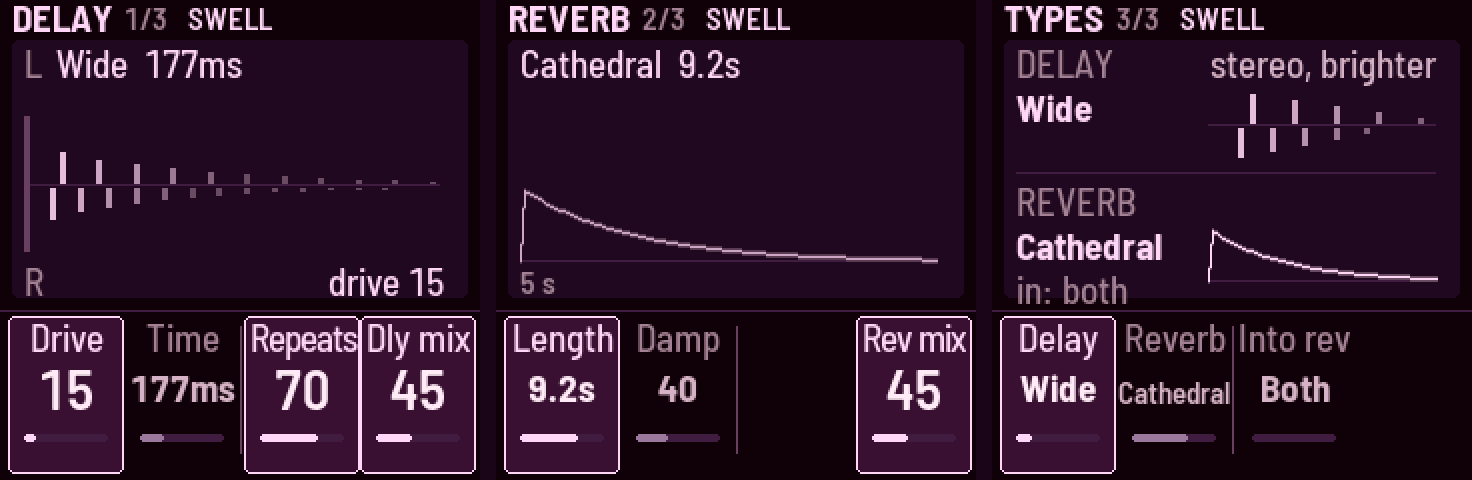
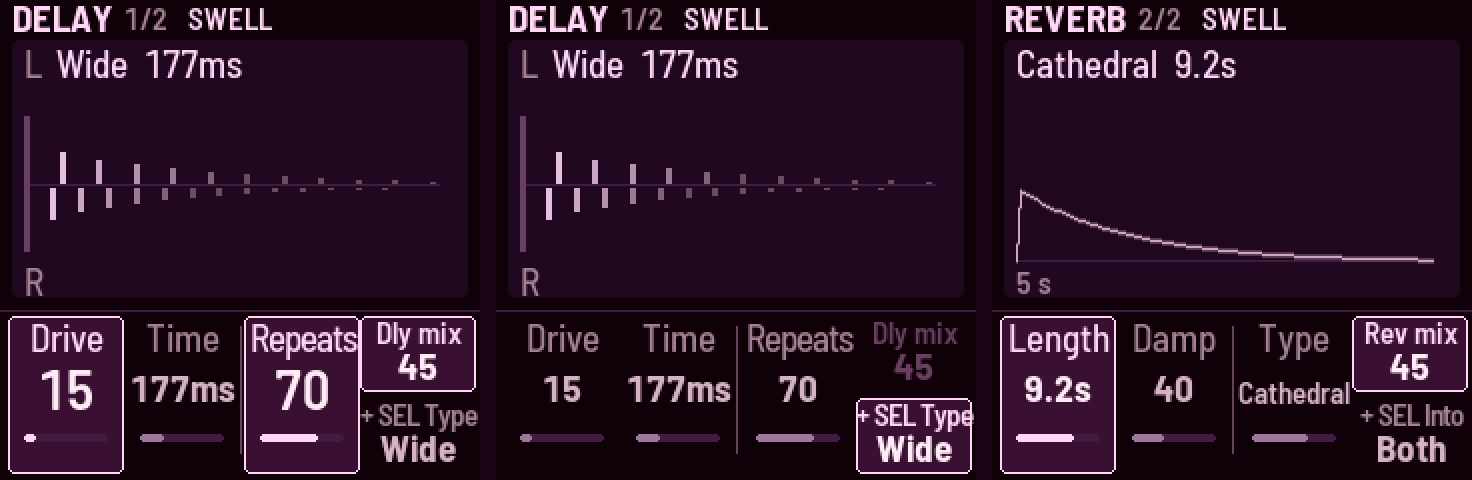
FX in two pages: the Types page folded in, KNOB 4 with a second job on SEL
Delay: Drive, Time, Repeats, Mix; Reverb: Length, Damp, Type (the knob that was empty), Mix. KNOB 4 on each page
turns, with SEL held, the choice made before playing: the delay's type, what goes into the reverb. Its card shows
both jobs at all times in two halves (the mix above, "+ SEL Type" / "+ SEL Into" below); the half turning lights,
and while SEL turns it only the mix half dims. The delay picture no longer repeats Drive. From review 5 and Evan's
design (Figma: Screen concepts, draft 5). Parameters unchanged.

diff --git a/web/emu/index.html b/web/emu/index.html
@@ -535,9 +535,8 @@ kbd { font: 500 .85em var(--mono); background: var(--card); border: 1px solid va
       <div class="pblock">
         <div class="g-btn">FX</div>
         <div class="pstack">
-        <div class="g-page"><i>Delay</i><span class="k both"><span class="sr">Knob 1: </span>Drive<small>after the delay</small></span><span class="k both"><span class="sr">Knob 2: </span>Time<small>70 ms – 1.46 s · on a clock: notes</small></span><span class="k both"><span class="sr">Knob 3: </span>Repeats</span><span class="k both"><span class="sr">Knob 4: </span>Dly mix</span></div>
-        <div class="g-page"><i>Reverb</i><span class="k both"><span class="sr">Knob 1: </span>Length<small>to Inf: a freeze</small></span><span class="k both"><span class="sr">Knob 2: </span>Damp</span><span class="k both none"><span class="sr">Knob 3: </span>–</span><span class="k both"><span class="sr">Knob 4: </span>Rev mix</span></div>
-        <div class="g-page"><i>Types</i><span class="k both"><span class="sr">Knob 1: </span>Delay<small>clean · wide · ping-pong · tape · grain · self</small></span><span class="k both"><span class="sr">Knob 2: </span>Reverb<small>room · hall · cathedral · chorus</small></span><span class="k both"><span class="sr">Knob 3: </span>Into reverb<small>both · echoes · drones</small></span><span class="k both none"><span class="sr">Knob 4: </span>–</span></div>
+        <div class="g-page"><i>Delay</i><span class="k both"><span class="sr">Knob 1: </span>Drive<small>after the delay</small></span><span class="k both"><span class="sr">Knob 2: </span>Time<small>70 ms – 1.46 s · on a clock: notes</small></span><span class="k both"><span class="sr">Knob 3: </span>Repeats</span><span class="k both"><span class="sr">Knob 4: </span>Dly mix<small>+ SEL: type · clean · wide · ping-pong · tape · grain · self</small></span></div>
+        <div class="g-page"><i>Reverb</i><span class="k both"><span class="sr">Knob 1: </span>Length<small>to Inf: a freeze</small></span><span class="k both"><span class="sr">Knob 2: </span>Damp</span><span class="k both"><span class="sr">Knob 3: </span>Type<small>room · hall · cathedral · chorus</small></span><span class="k both"><span class="sr">Knob 4: </span>Rev mix<small>+ SEL: into · both · echoes · drones</small></span></div>
         </div>
       </div>
     </div>
@@ -742,7 +741,7 @@ function hit(c, cls) {
   c.hit = d;
 }
 // what each control does, on hover (the Buttons list below says the same)
-const TIP = { FX: "Delay: drive, time, repeats, mix (again: Reverb: length to Inf, damp, mix; again: Types: the delay's, the reverb's)", SEL: "Hold while turning: fine (pitch in cents, cutoff and resonance in tenths); with a top white key: a bank (A, B, C, Presets); with PLAY: drone II alone",
+const TIP = { FX: "Delay: drive, time, repeats, mix; SEL + KNOB 4: the delay type (again: Reverb: length to Inf, damp, type, mix; SEL + KNOB 4: what goes into it)", SEL: "Hold while turning: fine (pitch in cents, cutoff and resonance in tenths); with a top white key: a bank (A, B, C, Presets); with PLAY: drone II alone",
   ENV: "Life: character, feedback, age, drift (again: Tone: noise and its colour, white to pink); hold to peek", LFO: "LFO depths: each drone's osc and filter depth; the keys pick the routing (again: Mods: rate mod, mod by, X-mod amount, delay LFO)",
   EDIT: "Osc: X-Wave, pulse width (again: Sub · Drive: osc mix, drive); hold to peek", GLO: "Setup 1: fade, switch time, scene time (again: Setup 2: tune, stereo width, pressure)",
   HOME: "Drones 1: pitch, cutoff (again: Drones 2: levels, resonance)", SAVE: "Save; hold it first, then tap a white key: store a scene (in bank A, B or C)", ARP: "Swell: tap for its page, tap again there: on / off; hold to peek", SEQ: "Partner: interval, detune (again: Pitch moves: Shift's move, pitch glide, Wander, its scale)",

diff --git a/firmware/src/app/ui.c b/firmware/src/app/ui.c
@@ -35,8 +35,9 @@
  * REC            the MOTION LOOP: tap to record what the knobs do, tap again to loop it from the start,
  *                tap again to stop (everything stays where it is); up to 5 minutes (lit: blinking recording,
  *                steady looping)
- *   FX             Delay: drive (after the delay, v0.3), time, repeats, mix; again: Reverb: length (to Inf),
- *                  damp, mix; again: Types: the delay's, the reverb's
+ *   FX             Delay: drive (after the delay, v0.3), time, repeats, mix, and with SEL held KNOB 4 the delay's
+ *                  type; again: Reverb: length (to Inf), damp, type, mix, and with SEL held KNOB 4 what goes into
+ *                  it (the Types page folded in: review 5, Evan 2026-10-28)
  *                  (the delay LFO's tap: the LFO page's key in drone II's filter group)
  *   ENV            Life: character, feedback, Age, Drift (first: review 5, 2026-10-28); again: Tone: each
  *                  drone's noise and colour
@@ -46,10 +47,9 @@
 /* ------------------------------------------------------------- pages --- */
 /* the pages (2026-10-10, from the review: what's played together sits together, no half-empty pages) */
 enum { V_PLAY, V_PLAY2, V_LIFE, V_TONE, V_OSC, V_SOURCE, V_LFO, V_LFO2, V_PARTNER, V_MOVES, V_SETUP, V_SETUP2,
-       V_PULSE, V_FX, V_FX2, V_FX3, NVIEWS };
+       V_PULSE, V_FX, V_FX2, NVIEWS };
 static const char *const VIEW_NAME[NVIEWS] = {"Drones 1", "Drones 2", "Life", "Tone", "Osc", "Sub · Drive", "LFO depths",
-                                              "Mods", "Partner", "Pitch moves", "Setup 1", "Setup 2", "Swell", "Delay", "Reverb",
-                                              "Types"};
+                                              "Mods", "Partner", "Pitch moves", "Setup 1", "Setup 2", "Swell", "Delay", "Reverb"};
 /* what each knob moves on each page: a drone's parameter (g 0 or 1, GP_*), a global one (g G, P_*), or
  * nothing (g NONE) */
 #define G 2
@@ -72,16 +72,19 @@ static const knob_t VIEW_KNOB[NVIEWS][4] = {
     {{G, P_FADE}, {G, P_MORPH}, {G, P_SCENE_T}, {NONE, 0}},
     {{G, P_TUNE}, {G, P_WIDTH}, {G, P_PRESS_SENS}, {NONE, 0}},   /* the Speaker cut is automatic (2026-10-20) */
     {{G, P_PULSE_RATE}, {G, P_PULSE_DEPTH}, {G, P_PULSE_SHAPE}, {G, P_PULSE_SWING}},
-    /* FX (v0.3): the delay with the drive after it; the reverb; their types on a page of their own (FX, third tap) */
+    /* FX (v0.3): the delay with the drive after it; the reverb, its type on KNOB 3. Each page's KNOB 4 has a second
+     * job with SEL held (SEL_JOB): the delay's type, what goes into the reverb (Evan, 2026-10-28) */
     {{G, P_DLY_DRIVE}, {G, P_DLY_TIME}, {G, P_DLY_REPEATS}, {G, P_DLY_MIX}},
-    {{G, P_REV_LEN}, {G, P_REV_DAMP}, {NONE, 0}, {G, P_REV_MIX}},
-    {{G, P_DLY_TYPE}, {G, P_REV_TYPE}, {G, P_DLY_ROUTE}, {NONE, 0}},
+    {{G, P_REV_LEN}, {G, P_REV_DAMP}, {G, P_REV_TYPE}, {G, P_REV_MIX}},
 };
+/* KNOB 4's second job with SEL held, on the pages that have one (its card shows both, the second "+ SEL"): the
+ * choices set before playing, so a player who never finds it loses nothing */
+static int sel_job_of(int v) { return v == V_FX ? P_DLY_TYPE : v == V_FX2 ? P_DLY_ROUTE : -1; }
 /* the page buttons: each shows its first page, pressed again the next */
 static const struct {
     uint8_t btn, first, n;
 } PAGE_BTN[] = {{B_HOME, V_PLAY, 2}, {B_ENV, V_LIFE, 2}, {B_EDIT, V_OSC, 2}, {B_LFO, V_LFO, 2},
-                {B_SEQ, V_PARTNER, 2}, {B_GLO, V_SETUP, 2}, {B_FX, V_FX, 3},
+                {B_SEQ, V_PARTNER, 2}, {B_GLO, V_SETUP, 2}, {B_FX, V_FX, 2},
                 {B_ARP, V_PULSE, 1}};                                    /* ARP: on its page, a tap toggles */
 #define NPAGE_BTN (sizeof PAGE_BTN / sizeof PAGE_BTN[0])
 #define HOLD_MS 400u                   /* a page button held this long (or a knob turned) is a peek */
@@ -157,6 +160,7 @@ static struct {
     char glab[2][16];                  /* SELECT / ALGORITHM / PRESETS turned: their name and value (top bar) */
     uint32_t glab_until;
     uint32_t touch_t[4];               /* each knob: lit until then (each its own timer: two hands) */
+    uint8_t k4_sel;                    /* KNOB 4 last turned with SEL held, on a page where that's its second job */
     int8_t morph;                      /* the scene being morphed to (VISIT_BACK: back from a visit), or -1 */
     int8_t visit;                      /* the white key held (a visit, if it's held long), or -1 */
     uint32_t visit_t;                  /* ... since */
@@ -226,8 +230,8 @@ static void mark_dirty(void) { ui.dirty = 1; ui.chg_t = plat_ms(); }
  * what's been seen, the player's, as the Gesture time is). A tip waits for the screen: after any message */
 enum { TIP_BLEND, TIP_NAMES, TIP_GEST, TIP_FX, TIP_INTO, TIP_XMOD, TIP_CLOCK, TIP_UNDO, NTIPS };
 static const char *const TIP_TEXT[NTIPS] = {   /* one line, the banner's width (~23) */
-    "PRESS HARDER: BLEND", "HOLD SEL: KEY NAMES", "HOLD: IN · TAP: LATCH", "TAP FX: REVERB, TYPES",
-    "KNOB 3: INTO REVERB", "KEY 11: PITCH, SNARL", "SWELL KNOB 1: DIVISION", "SEL + SAVE: UNDO"};
+    "PRESS HARDER: BLEND", "HOLD SEL: KEY NAMES", "HOLD: IN · TAP: LATCH", "TAP FX: REVERB",
+    "SEL + KNOB 4: INTO REV", "KEY 11: PITCH, SNARL", "SWELL KNOB 1: DIVISION", "SEL + SAVE: UNDO"};
 #define TIP_MS 3500u
 static int tip_seen(int t) { return proj.seen[t >> 3] >> (t & 7) & 1u; }
 static void tip(int t)
@@ -298,6 +302,8 @@ static void loop_note(int p, int v, uint32_t slide);  /* the motion loop notes k
 static int knob_param(int i)
 {
     knob_t k = VIEW_KNOB[ui.view][i];
+    if (i == 3 && (ui.btn >> B_SEL & 1u) && sel_job_of(ui.view) >= 0)
+        return sel_job_of(ui.view);                    /* KNOB 4's second job */
     if (k.g == NONE)
         return -1;
     if (k.g == G && dr_ext_spb > 0.0f)  /* on a MIDI clock (v0.3): the Swell's Rate its division, the delay's Time a note
@@ -425,6 +431,11 @@ static void knob_turn(int i, int32_t e)
     knob_t k = VIEW_KNOB[ui.view][i];
     if (p < 0)
         return;
+    if (i == 3 && sel_job_of(ui.view) >= 0) {        /* which half of KNOB 4's card lights */
+        ui.k4_sel = p == sel_job_of(ui.view);
+        if (ui.k4_sel)
+            ui.btn_used |= 1u << B_SEL;               /* SEL let go: not a tap */
+    }
     if (proj.par[P_II_OUT] && k.g == 1)        /* drone II out: say how it comes back, on any page (Evan, 2026-10-18) */
         say_c("II OFF", "SEL + PLAY", K_DRONE[1]);
     if (k.p == GP_PITCH && k.g < G)
@@ -570,7 +581,7 @@ static void set_view(int v)
         ui.touch_t[i] = 0;
     if (v == V_FX)
         tip(TIP_FX);
-    else if (v == V_FX3)
+    else if (v == V_FX2)
         tip(TIP_INTO);
     for (i = 0; i < NPAGE_BTN; i++)                    /* remembered: the button opens it next time */
         if (on_pages((int)i))
@@ -1758,8 +1769,8 @@ static const char *card_name(int p)
     case P_MORPH: return "Switch";             /* Switch time */
     case P_GLIDE: return "Glide";              /* Pitch glide */
     case P_PRESS_SENS: return "Press.";
-    case P_DLY_TYPE: return "Delay";           /* the Types page: each "Type" */
-    case P_REV_TYPE: return "Reverb";
+    case P_DLY_TYPE: return "Type";            /* the delay's (KNOB 4 with SEL), the reverb's (KNOB 3) */
+    case P_REV_TYPE: return "Type";
     case P_DLY_ROUTE: return "Into rev";       /* what goes into the reverb */
     case P_SCENE_BARS: return "Scenes";        /* the Scene time in bars (on a clock) */
     default: break;
@@ -1787,7 +1798,7 @@ static uint16_t page_col(void)
 {
     switch (ui.view) {
     case V_LFO: case V_LFO2: return K_LFO;
-    case V_FX: case V_FX2: case V_FX3: case V_LIFE: return K_FX;
+    case V_FX: case V_FX2: case V_LIFE: return K_FX;
     case V_PULSE: return K_PULSE;
     case V_SETUP: case V_SETUP2: return K_SETUP;
     default: return K_DIM;
@@ -2442,41 +2453,6 @@ static void pic_fx(int32_t y0)
         text_r(222, y0 + 3, "runaway", K_GOLD);
     else if (ty == 0)                          /* Clean */
         text_r(222, y0 + 3, "no wow", K_DIM);
-    if (proj.par[P_DLY_DRIVE]) {               /* the drive after it (KNOB 1) */
-        dr_param_text(P_DLY_DRIVE, proj.par[P_DLY_DRIVE], scopy(t, "drive "));
-        text_r(222, y0 + 112, t, proj.par[P_DLY_DRIVE] > 50 ? K_GOLD : K_FX);
-    }
-}
-
-/* Types (FX, third tap): the delay's type above (its first echoes, left above the line and right below, as on the
- * Delay page) and the reverb's below (its tail's start, the pre-delay a gap), each named */
-static void pic_types(int32_t y0)
-{
-    const int dt = (unsigned)proj.par[P_DLY_TYPE] < DR_NDLY ? proj.par[P_DLY_TYPE] : DR_DLY_TAPE;
-    const int rt = (unsigned)proj.par[P_REV_TYPE] < DR_NREV ? proj.par[P_REV_TYPE] : 2;
-    static const char *const DLY_SAYS[DR_NDLY] = {"bright, still", "stereo, brighter", "side to side", "warm, mono",
-                                                  "shaken by itself", "sways when loud"};   /* DR_DLY_NAME's order */
-    static const char *const ROUTE_SAYS[DR_NROUTE] = {"in: both", "in: echoes", "in: drones"};
-    const int ro = (unsigned)proj.par[P_DLY_ROUTE] < DR_NROUTE ? proj.par[P_DLY_ROUTE] : 0;
-    int32_t mid = y0 + 42, k, side;
-    cv_text(12, y0 + 3, &FONT_S, "DELAY", K_DIM);
-    cv_text(12, y0 + 25, &FONT_B, DR_DLY_NAME[dt], K_FX);
-    text_r(222, y0 + 3, DLY_SAYS[dt], K_TEXT2);
-    cv_rect(108, mid, 114, 1, K_GRID);
-    for (side = 0; side < 2; side++)
-        for (k = 1; k <= 5; k++) {
-            int32_t x = 108 + (int32_t)((float)k * 21.0f * (side && dt == 1 ? 0.75f : 1.0f)) + echo_shift(dt, k),
-                    bh = 18 - 3 * k;
-            if (dt == 2 && (k & 1) == side)    /* ping-pong: they take turns */
-                continue;
-            cv_rect(x, side ? mid + 2 : mid - bh, 3, bh, blend(K_FX, K_PANEL, k, 9));
-        }
-    cv_rect(12, y0 + 66, 210, 1, K_GRID);
-    cv_text(12, y0 + 72, &FONT_S, "REVERB", K_DIM);
-    cv_text(12, y0 + 94, &FONT_B, DR_REV_NAME[rt], K_FX);
-    cv_rect(108, y0 + 120, 114, 1, K_GRID);
-    draw_tail(rt, 75, 108, y0 + 120, 114, 26, K_FX);
-    cv_text(12, y0 + 116, &FONT_S, ROUTE_SAYS[ro], ro ? K_TEXT2 : K_DIM);   /* what goes into it (KNOB 3) */
 }
 
 /* Reverb: the tail over 5 s (its length; flat at Inf, "freeze"), as high as its mix, darker as Damp rises */
@@ -2749,7 +2725,6 @@ static void draw_pic(void)
     if (keymap_on()) {
         keymap_pic();
     } else if (ui.view == V_PULSE || ui.view == V_LFO || ui.view == V_LFO2 || ui.view == V_FX || ui.view == V_FX2 ||
-        ui.view == V_FX3 ||
         ui.view == V_SETUP || ui.view == V_SETUP2 || ui.view == V_LIFE ||
         ui.view == V_MOVES) {
         cv_round(6, 4, WIDE_W, PAN_H, 4, K_PANEL);
@@ -2759,7 +2734,6 @@ static void draw_pic(void)
         case V_LFO2: pic_lfo2(4); break;
         case V_FX: pic_fx(4); break;
         case V_FX2: pic_fx2(4); break;
-        case V_FX3: pic_types(4); break;
         case V_LIFE: pic_life(4); break;
         case V_SETUP2: pic_setup2(4); break;
         case V_MOVES: pic_moves(4); break;
@@ -2825,6 +2799,33 @@ static void big_value(int32_t cx, int32_t y, const char *s, uint16_t c)
     }
 }
 
+/* KNOB 4 with a second job (SEL_JOB): its card in two halves, always both shown (Evan, 2026-10-28: "I would never
+ * know there was another knob behind number 4"): its own value above, the SEL job's below ("+ SEL Type"). The
+ * half turning lights; while the SEL half turns, only the other half dims (the other knobs work as ever) */
+static void k4_halves(int32_t x, int32_t w, uint16_t accent, int on)
+{
+    const int pm = VIEW_KNOB[ui.view][3].p, ps = sel_job_of(ui.view);
+    const int sel_on = on && ui.k4_sel, mix_on = on && !ui.k4_sel;
+    int32_t cx = x + w / 2;
+    char t[16], n[16];
+    if (mix_on) {
+        cv_round(x - 2, 3, w + 4, 38, 6, K_CARD);
+        cv_frame(x - 2, 3, w + 4, 38, accent);
+    } else if (sel_on) {
+        cv_round(x - 2, 44, w + 4, 38, 6, K_CARD);
+        cv_frame(x - 2, 44, w + 4, 38, accent);
+    }
+    text_fit(cx, 4, w + 2, &FONT_XS, card_name(pm), mix_on ? accent : sel_on ? K_FAINT : K_DIM);
+    dr_param_text(pm, proj.par[pm], t);
+    text_fit(cx, 19, w + 2, &FONT_B, t, mix_on ? K_TEXT : sel_on ? K_FAINT : K_TEXT2);
+    if (!on)
+        cv_rect(x + 4, 42, w - 8, 1, K_GRID);
+    scopy(scopy(n, "+ SEL "), ps == P_DLY_ROUTE ? "Into" : "Type");   /* (with " · " too wide for the card) */
+    text_fit(cx, 45, w + 2, &FONT_XS, n, sel_on ? accent : K_DIM);
+    dr_param_text(ps, proj.par[ps], t);
+    text_fit(cx, 60, w + 2, fit_face(t, w + 2, 0), t, sel_on ? K_TEXT : K_TEXT2);
+}
+
 /* the page's four values: KNOB 1-2 under drone I, KNOB 3-4 under drone II. At rest, quiet; while a knob
  * moves (and a moment after), its value lights: a card in its colour, the value large, its bar */
 static void draw_values(void)
@@ -2841,6 +2842,9 @@ static void draw_values(void)
         h = hash(h, (p < 0 ? 0xFFFFu : (uint32_t)(uint16_t)proj.par[p]) | (uint32_t)lit((int)i) << 16 |
                         (uint32_t)(ui.btn >> B_SEL & 1u) << 17 | (uint32_t)(proj.par[P_PLOCK] != 0) << 18);
     }
+    if (sel_job_of(ui.view) >= 0)              /* KNOB 4's two halves: both values, and which is lit */
+        h = hash(h, (uint32_t)(uint16_t)proj.par[sel_job_of(ui.view)] |
+                        (uint32_t)(uint16_t)proj.par[VIEW_KNOB[ui.view][3].p] << 8 | (uint32_t)ui.k4_sel << 16);
     if (keymap_on()) {                         /* SEL held: the map's last two rows here */
         h = hash(h, 0x4B4Du | (uint32_t)(uint8_t)ui.km_key << 16);
         for (i = 0; i < 11u; i++)
@@ -2886,6 +2890,10 @@ static void draw_values(void)
         uint16_t accent = k.g < G ? K_DRONE[k.g] : k.p == P_XMOD_AMT ? K_DRONE[1] : page_col() == K_DIM ? K_TEXT : page_col();
         int is_pitch = k.p == GP_PITCH && k.g < G, locked = is_pitch && proj.par[P_PLOCK] && on;
         char t[16];
+        if (i == 3 && sel_job_of(ui.view) >= 0) {
+            k4_halves(x, w, accent, on);
+            continue;
+        }
         if (p < 0)
             continue;
         if (locked)                            /* PITCH LOCK: a turned pitch knob does nothing, so its card */

diff --git a/tools/make_screens.py b/tools/make_screens.py
@@ -10,7 +10,7 @@ from PIL import Image, ImageDraw, ImageFont
 
 ROOT = os.path.dirname(os.path.dirname(os.path.abspath(__file__)))
 BUTTONS = [("play", ["play", "play2"]), ("tone", ["life", "tone"]), ("osc", ["osc", "source"]), ("seq", ["partner", "partner2"]),
-           ("lfo", ["lfo", "lfo2"]), ("swell", ["pulse"]), ("effects", ["fx", "fx2", "types"]), ("setup", ["setup", "setup2"]), ("keys", ["keymap"])]
+           ("lfo", ["lfo", "lfo2"]), ("swell", ["pulse"]), ("effects", ["fx", "fx-sel", "fx2"]), ("setup", ["setup", "setup2"]), ("keys", ["keymap"])]
 SCALE, GAP = 2, 16
 BG = (26, 4, 24)
 

diff --git a/README.md b/README.md
@@ -17,7 +17,7 @@ teal drone II, lilac the LFO. The black keys are switches (lit = on; on the LFO 
 LFO's routing, and X-mod lets drone I move drone II's filter, or the drones and their sound bend each other's pitch); white keys 1–8 hold scenes, in
 banks you pick with SEL and the top four; keys 9–12 and the top four are gestures. The page buttons' pages, each tap the next: HOME
 Drones 1, 2 · ENV Life, Tone · EDIT Osc, Sub · Drive · SEQ Partner, Pitch moves · LFO LFO depths, Mods · ARP Swell ·
-FX Delay, Reverb, Types · GLO Setup 1, 2.*
+FX Delay, Reverb · GLO Setup 1, 2.*
 
 **Status: 0.2.** It runs on the FM-1 (tested on one unit so far) and in the browser:
 [try it](https://evanyerburgh.github.io/niagara-drift/) without an FM-1, the same code with sound.
@@ -322,15 +322,18 @@ glides: a slow turn is a smooth sweep, never steps; turn faster to go further. T
   lasts, from 32 bars down to a quarter note, and the picture shows it with the tempo ("8 bars · 120"). A locked LFO
   (black key 5, held) restarts on the Swell's bars, so it follows the clock too.
 
-#### Delay, Reverb and Types · FX
+#### Delay and Reverb · FX
 
-<img src="docs/img/page-effects.png" width="732" alt="The Delay, Reverb and Types pages: the echoes on the left and right with the drive, the reverb's tail, and the two types">
+<img src="docs/img/page-effects.png" width="732" alt="The Delay page with KNOB 4's card in two halves, the same page with SEL held and the delay type turning, and the Reverb page with its tail">
 
-| Page | KNOB 1 | KNOB 2 | KNOB 3 | KNOB 4 |
-|---|---|---|---|---|
-| Delay | drive | time | repeats | delay mix |
-| Reverb | length | damp | | reverb mix |
-| Types | delay type | reverb type | into reverb | |
+| Page | KNOB 1 | KNOB 2 | KNOB 3 | KNOB 4 | SEL + KNOB 4 |
+|---|---|---|---|---|---|
+| Delay | drive | time | repeats | delay mix | delay type |
+| Reverb | length | damp | reverb type | reverb mix | into reverb |
+
+- **KNOB 4 has two jobs** on these pages, and its card shows both: the mix above, and below it the choice you make
+  before playing, marked **+ SEL**. Hold SEL and turn KNOB 4 to change that choice; its half of the card lights and
+  the mix dims. Let go of SEL and KNOB 4 is the mix again.
 
 - **Drive** distorts the drones and their echoes together, after the delay and before the reverb, as the Lyra-8's
   distortion does: ghost notes, beating and crackle on the repeats. The first fifth of its turn blends a little in;
@@ -347,7 +350,7 @@ glides: a slow turn is a smooth sweep, never steps; turn faster to go further. T
   away into self-oscillation ("runaway" on the screen), held by a soft clip.
 - **Reverb types**: **Room**, **Hall**, **Cathedral** (the largest), **Chorus hall** (a hall that shimmers).
   They differ in size, distance and movement; changing type crossfades, and the knob goes round both ways.
-- **Into reverb** (Types, KNOB 3) is what the reverb hears: **Both** (the drones and their echoes, as the effects
+- **Into reverb** (Reverb, SEL + KNOB 4) is what the reverb hears: **Both** (the drones and their echoes, as the effects
   are chained), **Echoes** (only the echoes wash out; the drones stay dry and up front), or **Drones** (the reverb
   beside the delay: the drones wash, the echoes stay dry and distinct on top). Like every knob of choices, it goes
   round.

diff --git a/docs/decisions.md b/docs/decisions.md
@@ -458,3 +458,8 @@ at the end. The current state is in the [README](../README.md) and the code.
 - 2026-10-28: ENV opens on **Life** (Character, Feedback, Age, Drift), then **Tone** (noise, colour; was "Tone 1"):
   the most played of the two first. While Shift moves a drone's pitch, its pitch card lights and shows the pitch as
   heard, "SHIFT" under it. From review 5 (playability).
+- 2026-10-28 (Evan, from review 5): **FX is two pages, the Types page folded in.** Delay: Drive, Time, Repeats, Mix;
+  Reverb: Length, Damp, Type (the knob that was empty), Mix. KNOB 4 on each has a second job with SEL held, the choice
+  made before playing: the delay's type, and what goes into the reverb. Its card shows both at all times, in two
+  halves: the mix above, "+ SEL Type" / "+ SEL Into" below; the half turning lights, and while SEL turns it only the
+  mix half dims. The delay picture no longer shows "drive" (it has KNOB 1). Parameters unchanged (no PROJ_FORMAT).
